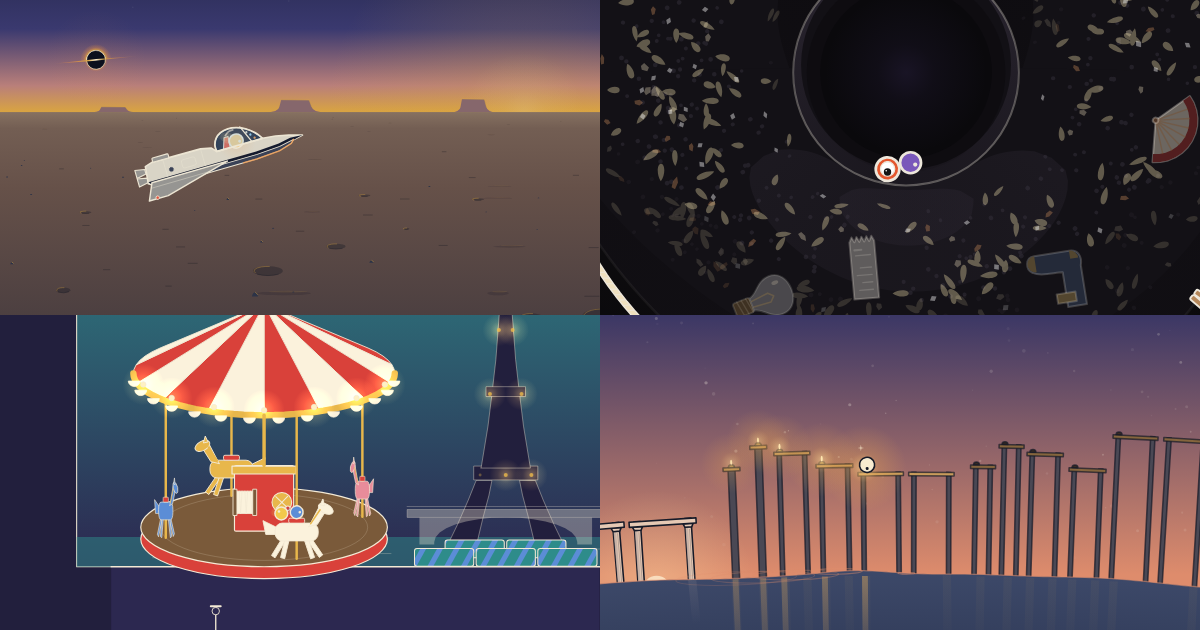
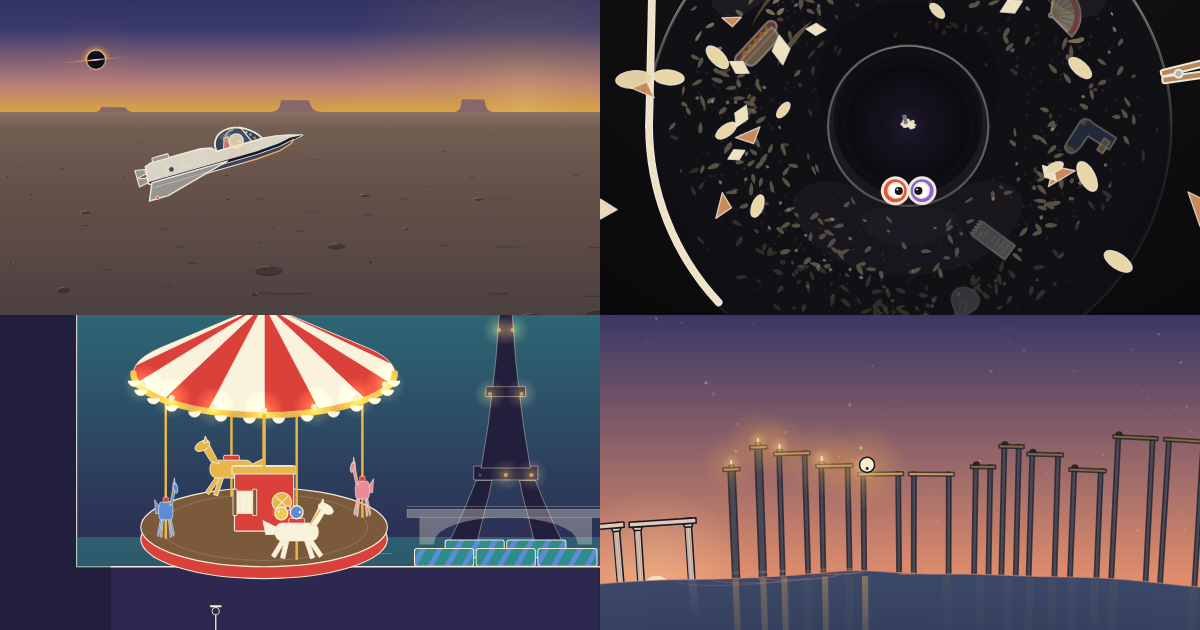
craft(everything): a share card with the two of them looking at each other
- The still moves from 243.5 s (small, off-centre, Joy eyeless) to 255.75 s: mother and daughter with their eyes,
  looking at each other in the glowing hole as everything bursts back out.
- Only this show's card and its quadrant of the Shows page's four-up card are replaced.

diff --git a/apps/rube/src/shows/versions/come-recover/opus55-all-at-once.show.ts b/apps/rube/src/shows/versions/come-recover/opus55-all-at-once.show.ts
@@ -4,6 +4,6 @@ export default defineShow({
   title: 'Everything',
   label: 'Opus 5.5',
   about: "Son Lux's Come Recover, from Everything Everywhere All at Once, as a Rube Goldberg machine that jumps between universes.",
-  still: 243.5,
+  still: 255.75,
   async load() { return (await import('./all-at-once')).performance },
 })

diff --git a/apps/rube/src/shows/versions/come-recover/ALL_AT_ONCE.md b/apps/rube/src/shows/versions/come-recover/ALL_AT_ONCE.md
@@ -586,6 +586,12 @@ The notes went back to the builders who made each part, who still had their cont
   the long music credit (it wraps to two lines), the YouTube player (whose terms want it seen), the transport, the
   camera modes and the export all fit and read. On a phone the panel stacks under the stage, and the stage still
   holds each world's action. The panel is the site's own and was not changed.
+- **A pass for the share card.** The still a link unfurls with was 243.5 s, chosen before any of these passes: the two
+  of them small and off-centre in the hole, Joy without her eye yet. It is now 255.75 s. Both have their eyes and
+  look at each other, centred in the glowing hole, with everything the bagel swallowed bursting back out round them.
+  That is the story in one frame. `public/shows/come-recover/opus55-all-at-once.png` was rendered by
+  `scripts/shows/show-cards.mjs`. In the Shows page's four-up `public/shows/card.png`, only this show's quadrant was
+  replaced, so the other shows' cards are byte for byte as they were.
 
 ## The looks
 
